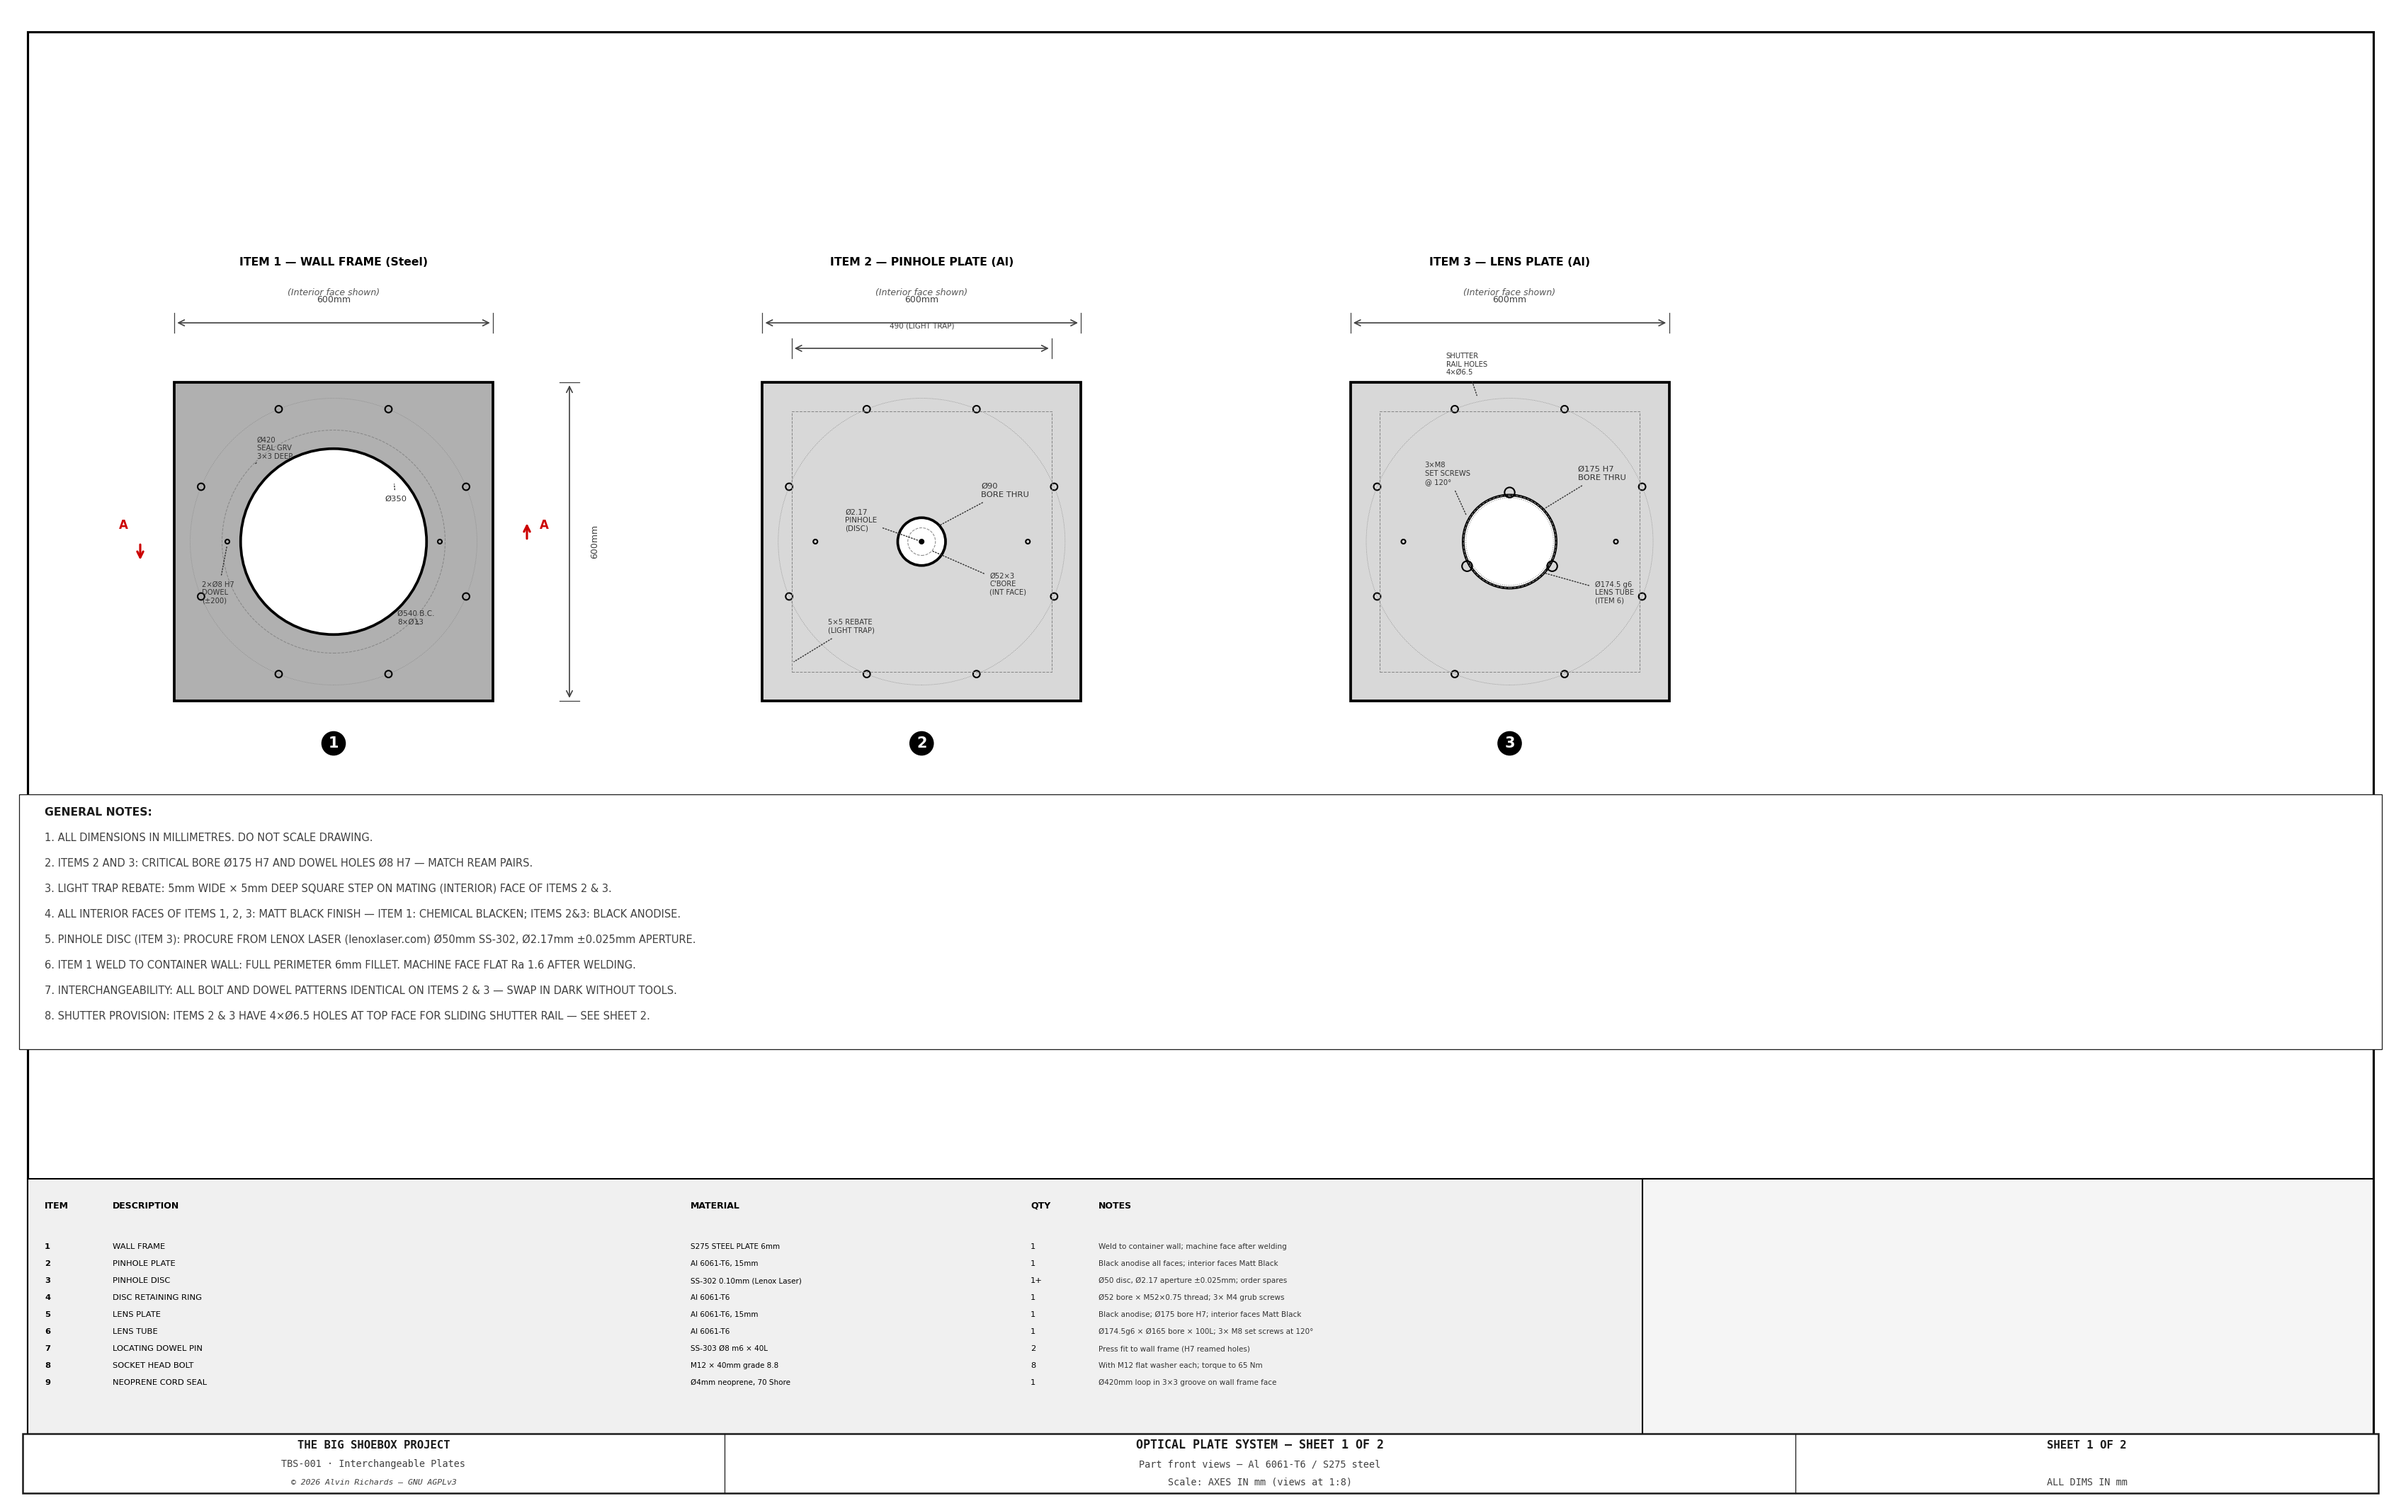
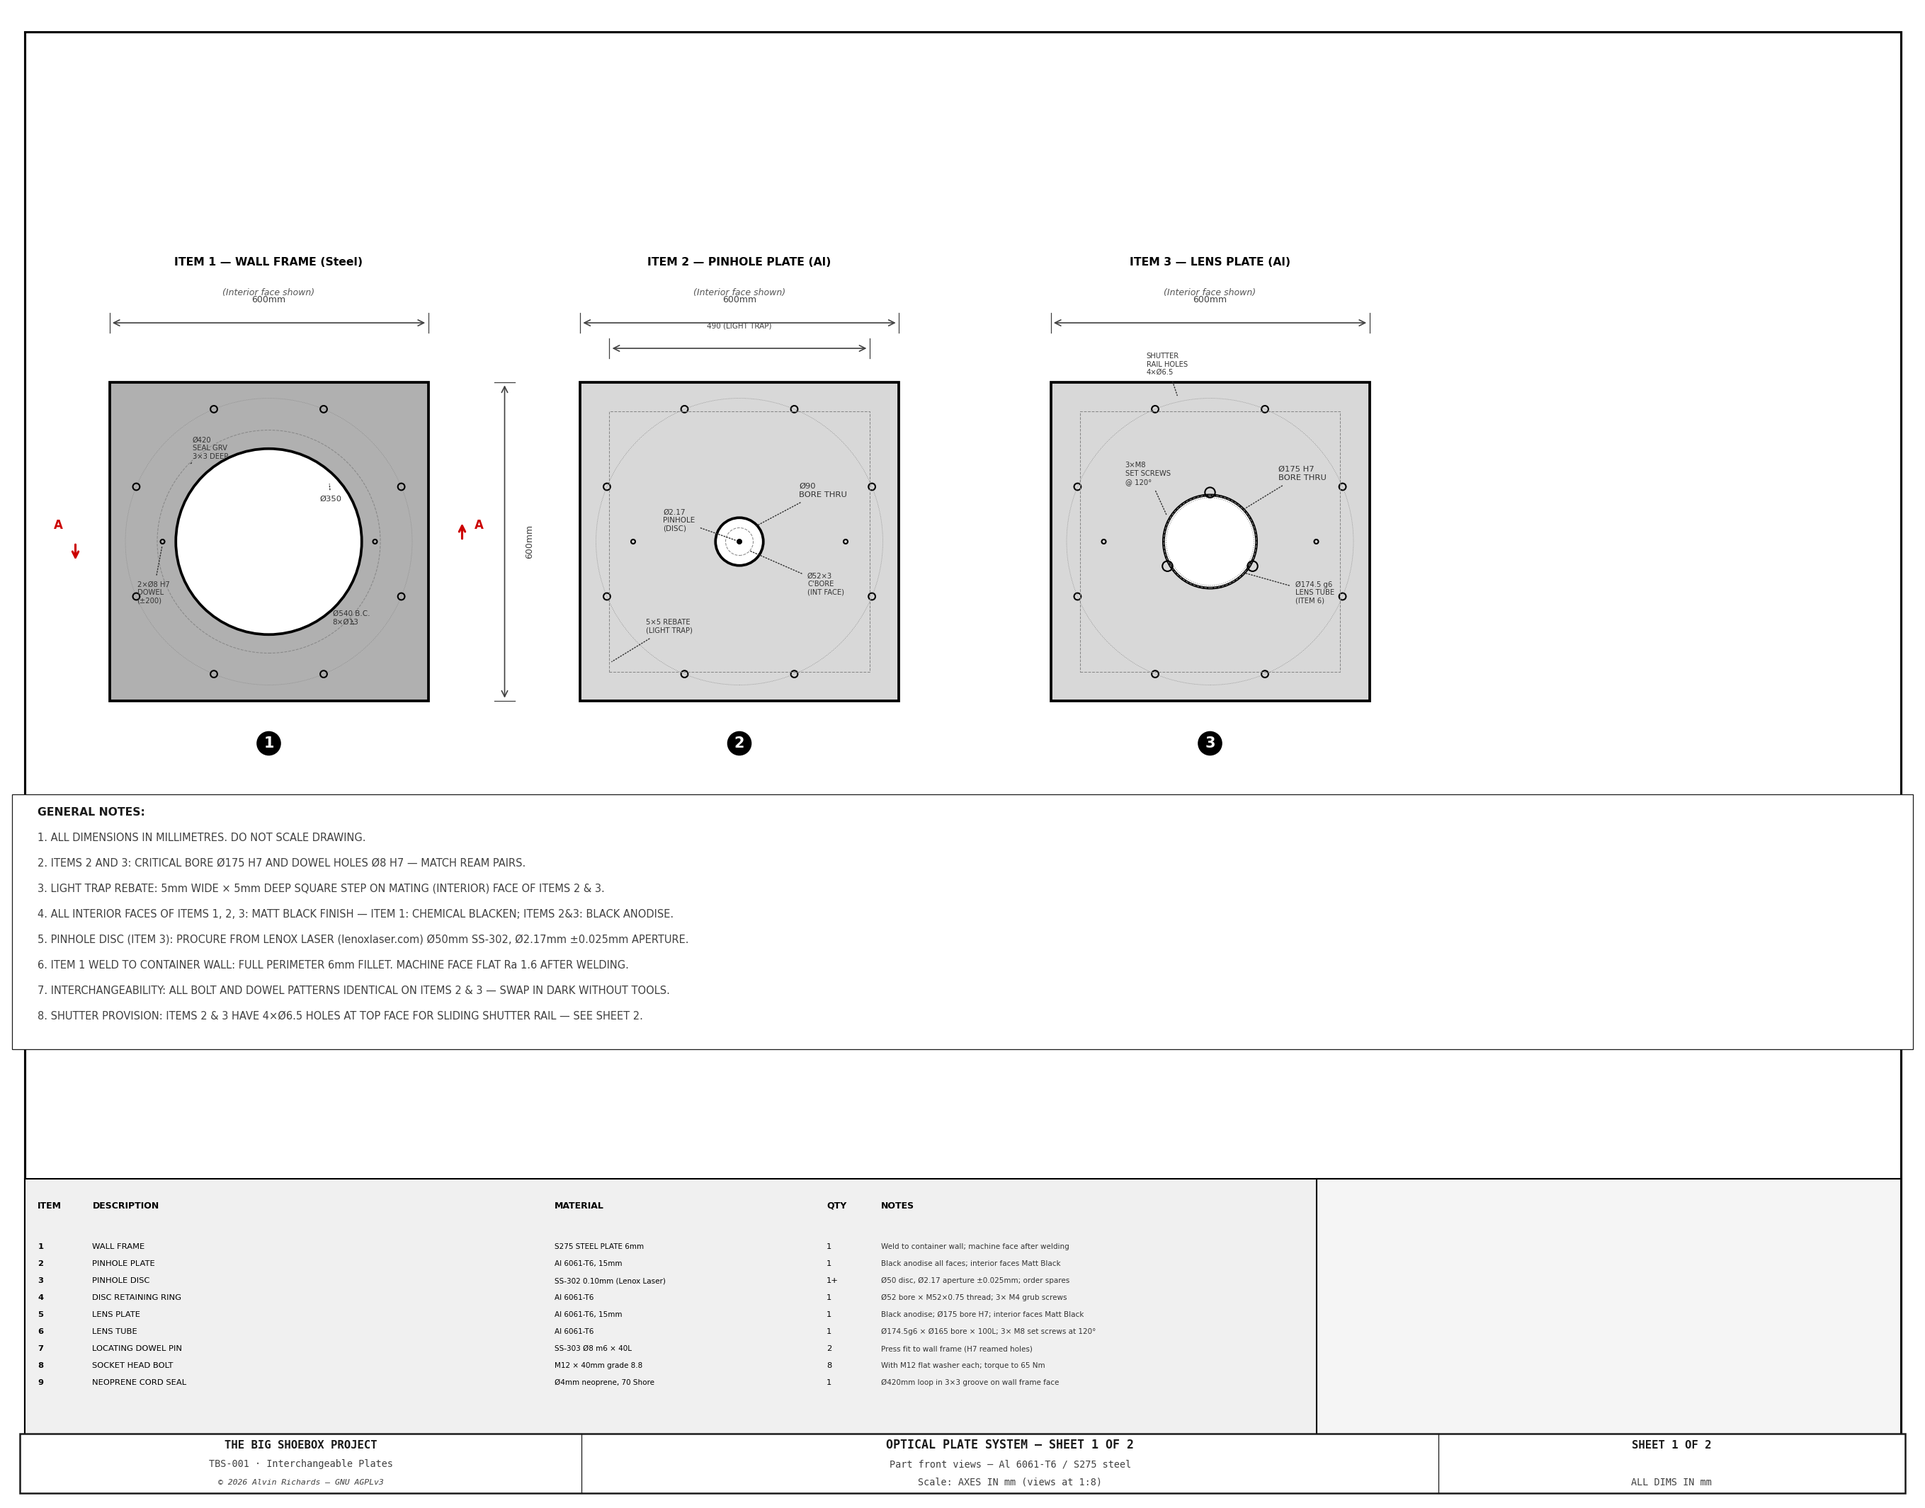
Plate drawing sheet 1: reduce width by another 20% (4480 to 3584 data units)

diff --git a/generate_plate_drawing.py b/generate_plate_drawing.py
@@ -74,12 +74,12 @@ C_RED   = '#CC0000'   # section-cut arrows
 # SHEET 1 — FRONT VIEWS
 # ═══════════════════════════════════════════════════════════════════════════════
 
-fig1, ax1 = plt.subplots(figsize=(22.4, 14))
+fig1, ax1 = plt.subplots(figsize=(17.92, 14))
 fig1.patch.set_facecolor('white')
 ax1.set_facecolor('white')
 ax1.set_aspect('equal')
 ax1.axis('off')
-ax1.set_xlim(0, 4480)
+ax1.set_xlim(0, 3584)
 ax1.set_ylim(0, 2800)
 
 SC = 1   # mm-first — AXES IN mm
@@ -87,9 +87,9 @@ SC = 1   # mm-first — AXES IN mm
 def s(mm): return mm * SC
 
 # ── Border and title block ────────────────────────────────────────────────────
-draw_rect(ax1, 32, 40, 4416, 2720, lw=1.5, color='black', fc='white')
-draw_rect(ax1, 32, 40, 4416, 560, lw=1.0, color='black', fc='#F0F0F0')  # parts list
-draw_rect(ax1, 3072, 40, 1376, 560, lw=1.0, color='black', fc='#F5F5F5')  # title block
+draw_rect(ax1, 26, 40, 3533, 2720, lw=1.5, color='black', fc='white')
+draw_rect(ax1, 26, 40, 3533, 560, lw=1.0, color='black', fc='#F0F0F0')  # parts list
+draw_rect(ax1, 2458, 40, 1101, 560, lw=1.0, color='black', fc='#F5F5F5')  # title block
 
 # Title block (shared)
 title_block(ax1, "SHEET 1 OF 2",
@@ -99,11 +99,11 @@ title_block(ax1, "SHEET 1 OF 2",
             doc_id="TBS-001 · Interchangeable Plates", height=0.04)
 
 # Parts list
-ax1.text(64, 544, 'ITEM', fontsize=6, fontweight='bold', color='black')
-ax1.text(192, 544, 'DESCRIPTION', fontsize=6, fontweight='bold', color='black')
-ax1.text(1280, 544, 'MATERIAL', fontsize=6, fontweight='bold', color='black')
-ax1.text(1920, 544, 'QTY', fontsize=6, fontweight='bold', color='black')
-ax1.text(2048, 544, 'NOTES', fontsize=6, fontweight='bold', color='black')
+ax1.text(51, 544, 'ITEM', fontsize=6, fontweight='bold', color='black')
+ax1.text(154, 544, 'DESCRIPTION', fontsize=6, fontweight='bold', color='black')
+ax1.text(1024, 544, 'MATERIAL', fontsize=6, fontweight='bold', color='black')
+ax1.text(1536, 544, 'QTY', fontsize=6, fontweight='bold', color='black')
+ax1.text(1638, 544, 'NOTES', fontsize=6, fontweight='bold', color='black')
 
 parts = [
     ('1', 'WALL FRAME', 'S275 STEEL PLATE 6mm', '1',
@@ -128,19 +128,19 @@ parts = [
 for i, (it, desc, mat, qty, note) in enumerate(parts):
     yp = 464 - i * 32
     bg = '#FFFFFF' if i % 2 == 0 else '#F8F8F8'
-    draw_rect(ax1, 38, yp - 16, 2996, 44, lw=0, fc=bg, zorder=1)
-    ax1.text(64, yp + 4, it, fontsize=5.5, color='black', fontweight='bold')
-    ax1.text(192, yp + 4, desc, fontsize=5.5, color='black')
-    ax1.text(1280, yp + 4, mat, fontsize=5, color='black')
-    ax1.text(1920, yp + 4, qty, fontsize=5.5, color='black')
-    ax1.text(2048, yp + 4, note, fontsize=5, color='#333333')
-ax1.plot([38, 3034], [520, 520], color='black', lw=0.5)
+    draw_rect(ax1, 30, yp - 16, 2397, 44, lw=0, fc=bg, zorder=1)
+    ax1.text(51, yp + 4, it, fontsize=5.5, color='black', fontweight='bold')
+    ax1.text(154, yp + 4, desc, fontsize=5.5, color='black')
+    ax1.text(1024, yp + 4, mat, fontsize=5, color='black')
+    ax1.text(1536, yp + 4, qty, fontsize=5.5, color='black')
+    ax1.text(1638, yp + 4, note, fontsize=5, color='#333333')
+ax1.plot([30, 2427], [520, 520], color='black', lw=0.5)
 
 # ── View titles ───────────────────────────────────────────────────────────────
 view_titles = [
-    (608, 2320, 'ITEM 1 — WALL FRAME (Steel)', '(Interior face shown)'),
-    (1715, 2320, 'ITEM 2 — PINHOLE PLATE (Al)', '(Interior face shown)'),
-    (2822, 2320, 'ITEM 3 — LENS PLATE (Al)', '(Interior face shown)'),
+    (486, 2320, 'ITEM 1 — WALL FRAME (Steel)', '(Interior face shown)'),
+    (1372, 2320, 'ITEM 2 — PINHOLE PLATE (Al)', '(Interior face shown)'),
+    (2258, 2320, 'ITEM 3 — LENS PLATE (Al)', '(Interior face shown)'),
 ]
 for tx, ty, t1, t2 in view_titles:
     ax1.text(tx, ty, t1, ha='center', fontsize=7.5, fontweight='bold', color='black')
@@ -149,7 +149,7 @@ for tx, ty, t1, t2 in view_titles:
 # ══════════════════════════════════════════════════════════
 # ITEM 1: WALL FRAME  (centre = 95, 290)
 # ══════════════════════════════════════════════════════════
-cx1, cy1 = 608, 1800
+cx1, cy1 = 486, 1800
 
 # Outer plate outline
 hw = s(PL_OD/2)
@@ -222,7 +222,7 @@ ax1.text(cx1, cy1 - hw - 80, '1', ha='center', va='center', fontsize=10,
 # ══════════════════════════════════════════════════════════
 # ITEM 2: PINHOLE PLATE  (centre = 268, 290)
 # ══════════════════════════════════════════════════════════
-cx2, cy2 = 1715, 1800
+cx2, cy2 = 1372, 1800
 
 draw_rect(ax1, cx2 - hw, cy2 - hw, s(PL_OD), s(PL_OD),
           lw=LW_THICK, color=C_OUT, fc=C_ALUM)
@@ -289,7 +289,7 @@ ax1.text(cx2, cy2 - hw - 80, '2', ha='center', va='center', fontsize=10,
 # ══════════════════════════════════════════════════════════
 # ITEM 3: LENS PLATE  (centre = 441, 290)
 # ══════════════════════════════════════════════════════════
-cx3, cy3 = 2822, 1800
+cx3, cy3 = 2258, 1800
 
 draw_rect(ax3 := ax1, cx3 - hw, cy3 - hw, s(PL_OD), s(PL_OD),
           lw=LW_THICK, color=C_OUT, fc=C_ALUM)
@@ -364,7 +364,7 @@ notes = [
     '7. INTERCHANGEABILITY: ALL BOLT AND DOWEL PATTERNS IDENTICAL ON ITEMS 2 & 3 — SWAP IN DARK WITHOUT TOOLS.',
     '8. SHUTTER PROVISION: ITEMS 2 & 3 HAVE 4×Ø6.5 HOLES AT TOP FACE FOR SLIDING SHUTTER RAIL — SEE SHEET 2.',
 ]
-draw_notes(ax1, notes, 64, 1300, spacing=48, fs=7, width=4352)
+draw_notes(ax1, notes, 51, 1300, spacing=48, fs=7, width=3482)
 
 plt.tight_layout(pad=0)
 
